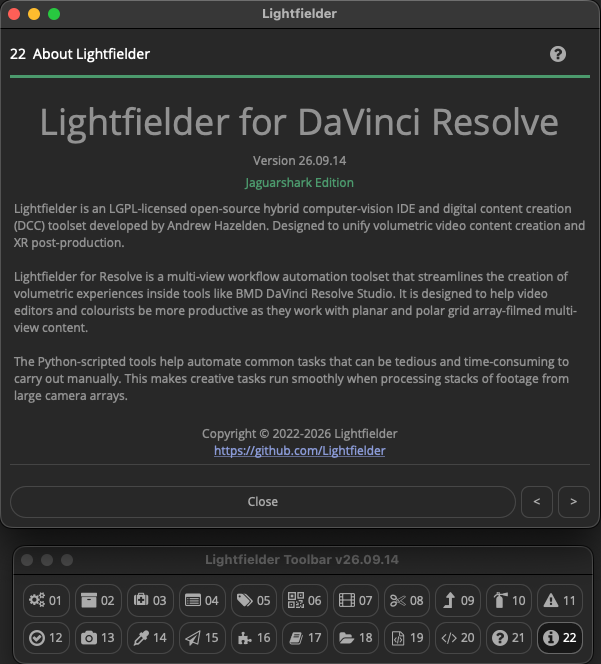
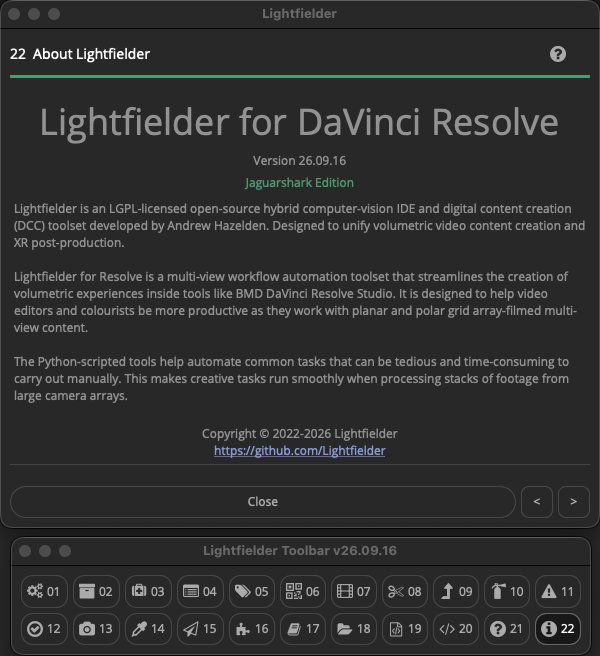
Docs

diff --git a/Lightfielder/Docs/README.md b/Lightfielder/Docs/README.md
@@ -1,4 +1,4 @@
-# Lightfielder v26.09.15 B2 for DaVinci Resolve
+# Lightfielder v26.09.16 B2 for DaVinci Resolve
 
 Created by: [Andrew Hazelden](mailto:andrew@andrewhazelden.com)
 
@@ -20,7 +20,7 @@ Note: Lightfielder also comes as a separate standalone app, and as a thin client
 
 ## Am I Lightfielder?
 
-You might be. Are you tech-artist, photographer, or filmmaker working with multi-view content in the [plenoptic imaging](https://en.wikipedia.org/wiki/Light_field_camera) domain? Do you frequently capture or process lightfield data? If YES, then you can easily use the colloquial term "Lightfielder" to describe your craft.
+You might be. Are you a tech artist, photographer, or filmmaker working with multi-view content in the [plenoptic imaging](https://en.wikipedia.org/wiki/Light_field_camera) domain? Do you frequently capture or process lightfield data? If YES, then you can easily use the colloquial term "Lightfielder" to describe your craft.
 
 ## What is a Lightfield Capture of a Scene?
 

diff --git a/README.md b/README.md
@@ -1,4 +1,4 @@
-# Lightfielder v26.09.15 B2 for DaVinci Resolve
+# Lightfielder v26.09.16 B2 for DaVinci Resolve
 
 Created by: [Andrew Hazelden](mailto:andrew@andrewhazelden.com)
 
@@ -20,7 +20,7 @@ Note: Lightfielder also comes as a separate standalone app, and as a thin client
 
 ## Am I Lightfielder?
 
-You might be. Are you tech-artist, photographer, or filmmaker working with multi-view content in the [plenoptic imaging](https://en.wikipedia.org/wiki/Light_field_camera) domain? Do you frequently capture or process lightfield data? If YES, then you can easily use the colloquial term "Lightfielder" to describe your craft.
+You might be. Are you a tech artist, photographer, or filmmaker working with multi-view content in the [plenoptic imaging](https://en.wikipedia.org/wiki/Light_field_camera) domain? Do you frequently capture or process lightfield data? If YES, then you can easily use the colloquial term "Lightfielder" to describe your craft.
 
 ## What is a Lightfield Capture of a Scene?
 
